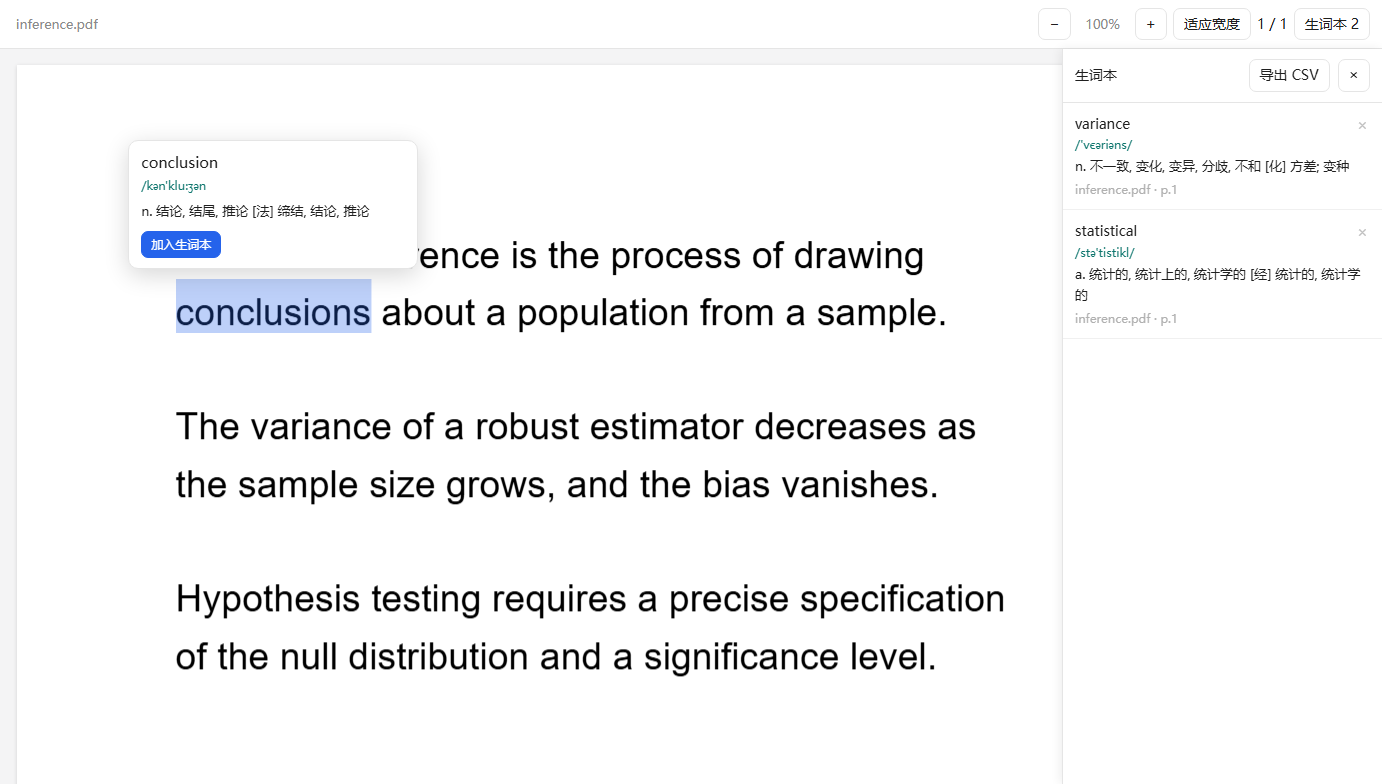
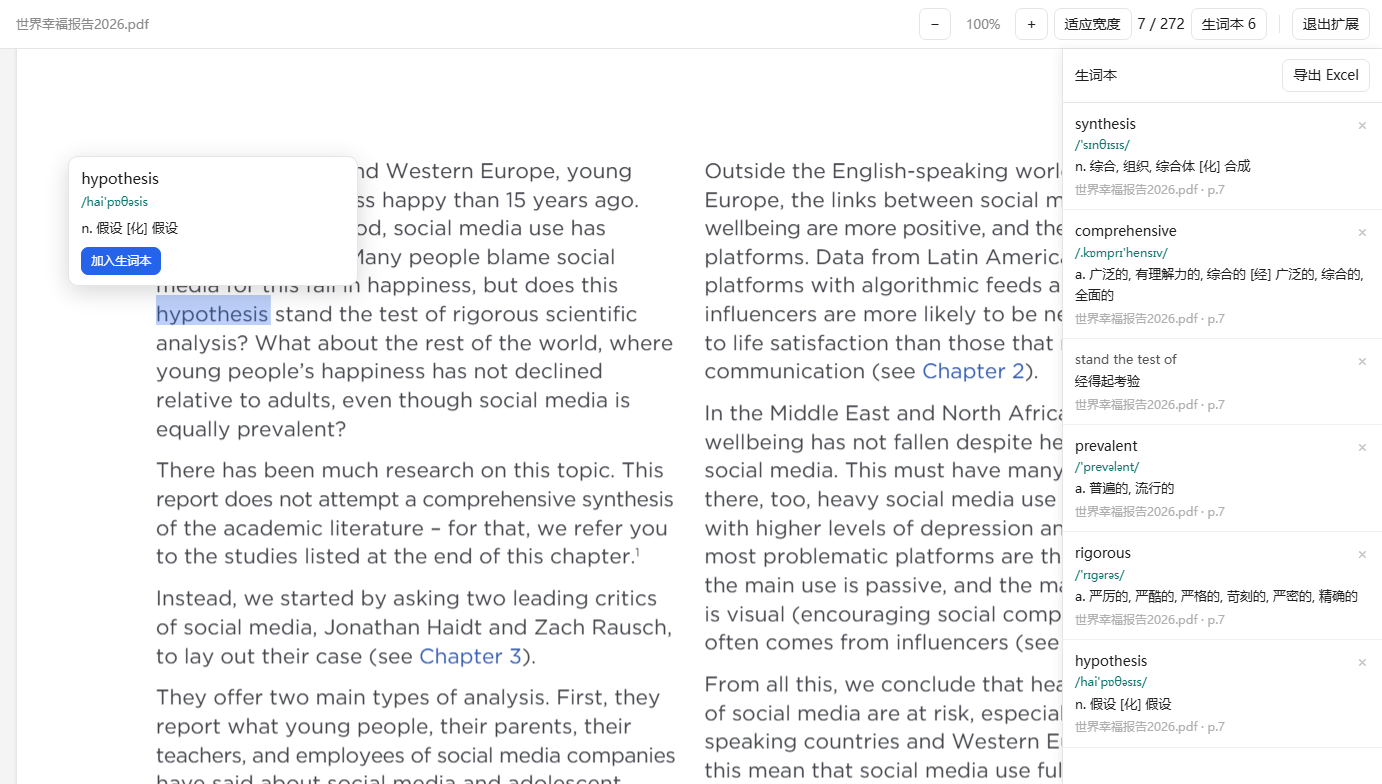
改为 Excel 导出，支持鼠标悬停弹出生词本，点击扩展图标可回到阅读器

diff --git a/viewer.js b/viewer.js
@@ -67,19 +67,34 @@ function lookup(word) {
   return null;
 }
 
-var vocab = [];
+var vocab = [], storageBroken = false;
+
+function hasStorage() {
+  return typeof chrome !== "undefined" && !!(chrome.storage && chrome.storage.local);
+}
+
+function storageErr(e) {
+  if (!storageBroken) console.error("生词存储不可用:", e || 'chrome.storage 未定义(manifest.json 缺少 "storage" 权限)');
+  storageBroken = true;
+}
+
 function loadVocab() {
+  if (!hasStorage()) { storageErr(); renderVocab(); return Promise.resolve(); }
   return chrome.storage.local.get("vocab").then(function (r) {
     vocab = (r && r.vocab) || [];
     renderVocab();
-  }).catch(function () { renderVocab(); });
+  }).catch(function (e) { storageErr(e); renderVocab(); });
 }
-function saveVocab() { return chrome.storage.local.set({ vocab: vocab }); }
+function saveVocab() {
+  if (!hasStorage()) return Promise.reject(new Error('chrome.storage 不可用(manifest.json 缺少 "storage" 权限)'));
+  return chrome.storage.local.set({ vocab: vocab }).catch(function (e) { storageErr(e); throw e; });
+}
 
 function renderVocab() {
   $("vc").textContent = vocab.length;
-  if (!vocab.length) { vl.innerHTML = '<div id="vemp">还没有生词</div>'; return; }
-  vl.innerHTML = vocab.slice().reverse().map(function (v, i) {
+  var warn = storageBroken ? '<div id="vemp">本地存储不可用，生词无法保存或读取。请检查 manifest.json 是否声明了 "storage" 权限，再重新加载扩展。</div>' : "";
+  if (!vocab.length) { vl.innerHTML = warn || '<div id="vemp">还没有生词</div>'; return; }
+  vl.innerHTML = warn + vocab.slice().reverse().map(function (v, i) {
     var idx = vocab.length - 1 - i;
     var long = /\s/.test(v.w) || v.w.length > 24;
     var src = [v.f, v.m].filter(function (x) { return !!x; }).join(" · ");
@@ -94,32 +109,188 @@ vl.addEventListener("click", function (e) {
   var b = e.target.closest(".x");
   if (!b) return;
   vocab.splice(+b.dataset.i, 1);
-  saveVocab().then(renderVocab);
+  saveVocab().then(renderVocab, renderVocab);
 });
+
+function setSt(r) {
+  var st = $("ps");
+  if (st) st.textContent = r === "ok" ? "已加入" : (r === "err" ? "保存失败" : "已存在");
+}
 
 function addVocab(w, ph, tr, meta) {
   for (var i = 0; i < vocab.length; i++) {
-    if (vocab[i].w.toLowerCase() === w.toLowerCase()) return Promise.resolve(false);
+    if (vocab[i].w.toLowerCase() === w.toLowerCase()) return Promise.resolve("dup");
   }
   vocab.push({ w: w, p: ph || "", t: tr || "", m: meta || "", d: Date.now(), f: fileName });
-  return saveVocab().then(function () { renderVocab(); return true; });
+  renderVocab();
+  return saveVocab().then(function () { return "ok"; }, function () { storageBroken = true; renderVocab(); return "err"; });
 }
 
-function exportCSV() {
-  if (!vocab.length) return;
-  var rows = [["原文", "音标", "译文", "PDF文件", "页码", "时间"]];
-  vocab.forEach(function (v) {
-    rows.push([v.w, v.p, v.t, v.f || "", String(v.m || "").replace(/^p\./, ""), v.d ? new Date(v.d).toLocaleString("zh-CN") : ""]);
+/* ==== xlsx export: self-contained minimal writer ==== */
+var CRC_T = null;
+function crc32(b) {
+  if (!CRC_T) {
+    CRC_T = new Int32Array(256);
+    for (var n = 0; n < 256; n++) {
+      var c = n;
+      for (var k = 0; k < 8; k++) c = (c & 1) ? (0xEDB88320 ^ (c >>> 1)) : (c >>> 1);
+      CRC_T[n] = c;
+    }
+  }
+  var r = -1;
+  for (var i = 0; i < b.length; i++) r = (r >>> 8) ^ CRC_T[(r ^ b[i]) & 0xFF];
+  return (r ^ -1) >>> 0;
+}
+
+function zipStore(files) {
+  var enc = new TextEncoder();
+  var items = files.map(function (f) {
+    return { name: enc.encode(f.name), data: f.data, crc: crc32(f.data) };
   });
-  var csv = "\ufeff" + rows.map(function (r) {
-    return r.map(function (c) { return '"' + String(c).replace(/"/g, '""') + '"'; }).join(",");
-  }).join("\r\n");
+  var now = new Date();
+  var tm = ((now.getHours() << 11) | (now.getMinutes() << 5) | (now.getSeconds() >> 1)) & 0xFFFF;
+  var dt = (((now.getFullYear() - 1980) << 9) | ((now.getMonth() + 1) << 5) | now.getDate()) & 0xFFFF;
+  var localLen = 0, centralLen = 0;
+  items.forEach(function (f) {
+    f.off = localLen;
+    localLen += 30 + f.name.length + f.data.length;
+    centralLen += 46 + f.name.length;
+  });
+  var out = new Uint8Array(localLen + centralLen + 22);
+  var dv = new DataView(out.buffer), p = 0;
+  function u16(v) { dv.setUint16(p, v, true); p += 2; }
+  function u32(v) { dv.setUint32(p, v >>> 0, true); p += 4; }
+  function raw(b) { out.set(b, p); p += b.length; }
+  items.forEach(function (f) {
+    u32(0x04034b50); u16(20); u16(0); u16(0); u16(tm); u16(dt);
+    u32(f.crc); u32(f.data.length); u32(f.data.length); u16(f.name.length); u16(0);
+    raw(f.name); raw(f.data);
+  });
+  var cd = p;
+  items.forEach(function (f) {
+    u32(0x02014b50); u16(20); u16(20); u16(0); u16(0); u16(tm); u16(dt);
+    u32(f.crc); u32(f.data.length); u32(f.data.length);
+    u16(f.name.length); u16(0); u16(0); u16(0); u16(0); u32(0); u32(f.off);
+    raw(f.name);
+  });
+  var cdSize = p - cd;
+  u32(0x06054b50); u16(0); u16(0); u16(items.length); u16(items.length);
+  u32(cdSize); u32(cd); u16(0);
+  return out;
+}
+
+function xmlEsc(v) {
+  var s = String(v == null ? "" : v), out = "";
+  for (var i = 0; i < s.length; i++) {
+    var c = s.charCodeAt(i);
+    if (c < 32 && c !== 9 && c !== 10 && c !== 13) continue;
+    var ch = s.charAt(i);
+    out += ch === "&" ? "&amp;" : ch === "<" ? "&lt;" : ch === ">" ? "&gt;" : ch;
+  }
+  return out;
+}
+
+function colRef(i) {
+  var s = "";
+  for (i += 1; i > 0; i = Math.floor((i - 1) / 26)) s = String.fromCharCode(65 + (i - 1) % 26) + s;
+  return s;
+}
+
+function numOrText(s) { return (s !== "" && String(+s) === s) ? +s : s; }
+
+function excelDate(t) {
+  var d = new Date(t);
+  return Math.round(((d.getTime() - d.getTimezoneOffset() * 60000) / 86400000 + 25569) * 86400) / 86400;
+}
+
+function xlsxBlob(rows, sheetName, widths) {
+  var enc = new TextEncoder();
+  var last = colRef(rows[0].length - 1) + rows.length;
+  var body = rows.map(function (r, ri) {
+    var cells = "";
+    for (var ci = 0; ci < r.length; ci++) {
+      var v = r[ci];
+      if (v === null || v === undefined || v === "") continue;
+      var ref = colRef(ci) + (ri + 1);
+      if (ri === 0) {
+        cells += '<c r="' + ref + '" s="1" t="inlineStr"><is><t xml:space="preserve">' + xmlEsc(v) + "</t></is></c>";
+      } else if (typeof v === "number") {
+        cells += '<c r="' + ref + '"' + (ci === 4 ? ' s="3"' : "") + "><v>" + v + "</v></c>";
+      } else {
+        cells += '<c r="' + ref + '" s="2" t="inlineStr"><is><t xml:space="preserve">' + xmlEsc(v) + "</t></is></c>";
+      }
+    }
+    return '<row r="' + (ri + 1) + '">' + cells + "</row>";
+  }).join("");
+  var cols = (widths || []).map(function (w, i) {
+    return '<col min="' + (i + 1) + '" max="' + (i + 1) + '" width="' + w + '" customWidth="1"/>';
+  }).join("");
+  var parts = {
+    "[Content_Types].xml": '<?xml version="1.0" encoding="UTF-8" standalone="yes"?>' +
+      '<Types xmlns="http://schemas.openxmlformats.org/package/2006/content-types">' +
+      '<Default Extension="rels" ContentType="application/vnd.openxmlformats-package.relationships+xml"/>' +
+      '<Default Extension="xml" ContentType="application/xml"/>' +
+      '<Override PartName="/xl/workbook.xml" ContentType="application/vnd.openxmlformats-officedocument.spreadsheetml.sheet.main+xml"/>' +
+      '<Override PartName="/xl/worksheets/sheet1.xml" ContentType="application/vnd.openxmlformats-officedocument.spreadsheetml.worksheet+xml"/>' +
+      '<Override PartName="/xl/styles.xml" ContentType="application/vnd.openxmlformats-officedocument.spreadsheetml.styles+xml"/>' +
+      "</Types>",
+    "_rels/.rels": '<?xml version="1.0" encoding="UTF-8" standalone="yes"?>' +
+      '<Relationships xmlns="http://schemas.openxmlformats.org/package/2006/relationships">' +
+      '<Relationship Id="rId1" Type="http://schemas.openxmlformats.org/officeDocument/2006/relationships/officeDocument" Target="xl/workbook.xml"/>' +
+      "</Relationships>",
+    "xl/workbook.xml": '<?xml version="1.0" encoding="UTF-8" standalone="yes"?>' +
+      '<workbook xmlns="http://schemas.openxmlformats.org/spreadsheetml/2006/main" xmlns:r="http://schemas.openxmlformats.org/officeDocument/2006/relationships">' +
+      '<sheets><sheet name="' + xmlEsc(sheetName) + '" sheetId="1" r:id="rId1"/></sheets></workbook>',
+    "xl/_rels/workbook.xml.rels": '<?xml version="1.0" encoding="UTF-8" standalone="yes"?>' +
+      '<Relationships xmlns="http://schemas.openxmlformats.org/package/2006/relationships">' +
+      '<Relationship Id="rId1" Type="http://schemas.openxmlformats.org/officeDocument/2006/relationships/worksheet" Target="worksheets/sheet1.xml"/>' +
+      '<Relationship Id="rId2" Type="http://schemas.openxmlformats.org/officeDocument/2006/relationships/styles" Target="styles.xml"/>' +
+      "</Relationships>",
+    "xl/styles.xml": '<?xml version="1.0" encoding="UTF-8" standalone="yes"?>' +
+      '<styleSheet xmlns="http://schemas.openxmlformats.org/spreadsheetml/2006/main">' +
+      '<numFmts count="1"><numFmt numFmtId="164" formatCode="yyyy-mm-dd hh:mm"/></numFmts>' +
+      '<fonts count="2"><font><sz val="11"/><name val="Calibri"/></font><font><b/><sz val="11"/><name val="Calibri"/></font></fonts>' +
+      '<fills count="2"><fill><patternFill patternType="none"/></fill><fill><patternFill patternType="gray125"/></fill></fills>' +
+      '<borders count="1"><border/></borders>' +
+      '<cellStyleXfs count="1"><xf numFmtId="0" fontId="0" fillId="0" borderId="0"/></cellStyleXfs>' +
+      '<cellXfs count="4">' +
+      '<xf numFmtId="0" fontId="0" fillId="0" borderId="0" xfId="0"/>' +
+      '<xf numFmtId="0" fontId="1" fillId="0" borderId="0" xfId="0" applyFont="1"/>' +
+      '<xf numFmtId="0" fontId="0" fillId="0" borderId="0" xfId="0" applyAlignment="1"><alignment vertical="top" wrapText="1"/></xf>' +
+      '<xf numFmtId="164" fontId="0" fillId="0" borderId="0" xfId="0" applyNumberFormat="1"/>' +
+      "</cellXfs>" +
+      '<cellStyles count="1"><cellStyle name="Normal" xfId="0" builtinId="0"/></cellStyles>' +
+      "</styleSheet>",
+    "xl/worksheets/sheet1.xml": '<?xml version="1.0" encoding="UTF-8" standalone="yes"?>' +
+      '<worksheet xmlns="http://schemas.openxmlformats.org/spreadsheetml/2006/main">' +
+      '<dimension ref="A1:' + last + '"/>' +
+      '<sheetViews><sheetView tabSelected="1" workbookViewId="0">' +
+      '<pane ySplit="1" topLeftCell="A2" activePane="bottomLeft" state="frozen"/>' +
+      '<selection pane="bottomLeft" activeCell="A2" sqref="A2"/></sheetView></sheetViews>' +
+      '<sheetFormatPr defaultRowHeight="15"/>' +
+      (cols ? "<cols>" + cols + "</cols>" : "") +
+      "<sheetData>" + body + "</sheetData>" +
+      '<autoFilter ref="A1:' + last + '"/>' +
+      "</worksheet>"
+  };
+  var files = Object.keys(parts).map(function (k) { return { name: k, data: enc.encode(parts[k]) }; });
+  return new Blob([zipStore(files)], { type: "application/vnd.openxmlformats-officedocument.spreadsheetml.sheet" });
+}
+
+function exportXLSX() {
+  if (!vocab.length) return;
+  var rows = [["原文", "译文", "PDF文件", "页码", "时间"]];
+  vocab.forEach(function (v) {
+    var pg = String(v.m || "").replace(/^p[.]/, "");
+    rows.push([v.w, v.t || "", v.f || "", numOrText(pg), v.d ? excelDate(v.d) : ""]);
+  });
   var a = document.createElement("a");
-  a.href = URL.createObjectURL(new Blob([csv], { type: "text/csv;charset=utf-8" }));
-  a.download = "生词本_" + new Date().toISOString().slice(0, 10) + ".csv";
+  a.href = URL.createObjectURL(xlsxBlob(rows, "生词本", [24, 60, 34, 8, 20]));
+  a.download = "生词本_" + new Date().toISOString().slice(0, 10) + ".xlsx";
   a.click();
   setTimeout(function () { URL.revokeObjectURL(a.href); }, 3000);
 }
+/* ==== end xlsx export ==== */
 
 function xlate(text) {
   return fetch("https://api.mymemory.translated.net/get?q=" +
@@ -181,9 +352,7 @@ function showPop(text, rect, page) {
 
   if (isWord) {
     $("pw").onclick = function () {
-      var st = $("ps");
-      addVocab(hit ? hit.key : text, hit ? hit.e[0] : "", hit ? hit.e[1] : "", "p." + page)
-        .then(function (ok) { st.textContent = ok ? "已加入" : "已存在"; });
+      addVocab(hit ? hit.key : text, hit ? hit.e[0] : "", hit ? hit.e[1] : "", "p." + page).then(setSt);
     };
   } else {
     var trans = null;
@@ -197,9 +366,7 @@ function showPop(text, rect, page) {
     $("pw").onclick = function () {
       var st = $("ps");
       function put() {
-        addVocab(text, "", trans, "p." + page).then(function (ok) {
-          st.textContent = ok ? "已加入" : "已存在";
-        });
+        addVocab(text, "", trans, "p." + page).then(setSt);
       }
       if (trans) return put();
       st.textContent = "翻译中…";
@@ -393,9 +560,17 @@ $("zi2").onclick = function () { setZoom(zoom * 1.15); };
 $("fit").onclick = function () {
   zoom = 1; fitScale = computeFit(); updateZoomUI(); build();
 };
-$("vb").onclick = function () { side.hidden = !side.hidden; };
-$("sc").onclick = function () { side.hidden = true; };
-$("ex").onclick = exportCSV;
+var sideTimer = null;
+function openSide() { clearTimeout(sideTimer); side.hidden = false; }
+function closeSide() {
+  clearTimeout(sideTimer);
+  sideTimer = setTimeout(function () { side.hidden = true; }, 250);
+}
+$("vb").addEventListener("mouseenter", openSide);
+$("vb").addEventListener("mouseleave", closeSide);
+side.addEventListener("mouseenter", function () { clearTimeout(sideTimer); });
+side.addEventListener("mouseleave", closeSide);
+$("ex").onclick = exportXLSX;
 $("nat").onclick = function () {
   try {
     chrome.mimeHandler.abortAndFallbackToNativeHandler();

diff --git a/viewer.html b/viewer.html
@@ -3,7 +3,7 @@
 <head>
 <meta charset="utf-8">
 <meta name="viewport" content="width=device-width,initial-scale=1">
-<title>英语阅读器</title>
+<title>英文PDF阅读器</title>
 <link rel="stylesheet" href="viewer.css">
 </head>
 <body>
@@ -13,13 +13,14 @@
 <button id="zo">−</button><span id="zi">100%</span><button id="zi2">+</button>
 <button id="fit">适应宽度</button>
 <span id="pi">1 / 1</span>
-<button id="nat" title="退出扩展，用 Chrome 自带的查看器打开当前文件。">退出扩展</button>
 <button id="vb">生词本 <span id="vc">0</span></button>
+<span class="sep"></span>
+<button id="nat" title="退出扩展，改用 Chrome 自带的查看器打开当前文件">退出扩展</button>
 </header>
 <main>
 <div id="viewer"><div id="empty">正在载入 PDF…</div></div>
 <aside id="side" hidden>
-<div class="sh"><b>生词本</b><span class="sp"></span><button id="ex">导出 CSV</button><button id="sc">×</button></div>
+<div class="sh"><b>生词本</b><span class="sp"></span><button id="ex">导出 Excel</button></div>
 <ul id="vl"></ul>
 </aside>
 </main>

diff --git a/viewer.css b/viewer.css
@@ -7,6 +7,7 @@ button{font:inherit;color:var(--tx);background:#fff;border:1px solid var(--bd);b
 button:hover{background:#f0f0f0}
 #fn{color:var(--mu);font-size:13px;max-width:360px;overflow:hidden;text-overflow:ellipsis;white-space:nowrap;margin-left:4px}
 .sp{flex:1}
+.sep{width:1px;height:18px;background:var(--bd);flex:0 0 auto;margin:0 6px}
 #zi{color:var(--mu);min-width:52px;text-align:center;font-size:13px}
 main{flex:1;display:flex;min-height:0;position:relative}
 #viewer{flex:1;overflow:auto;padding:16px;display:flex;flex-direction:column;align-items:center;gap:16px;position:relative}

diff --git a/sw.js b/sw.js
@@ -1,0 +1,4 @@
+chrome.action.onClicked.addListener(function (tab) {
+  if (!tab || !tab.id || !tab.url) return;
+  chrome.tabs.update(tab.id, { url: tab.url });
+});
